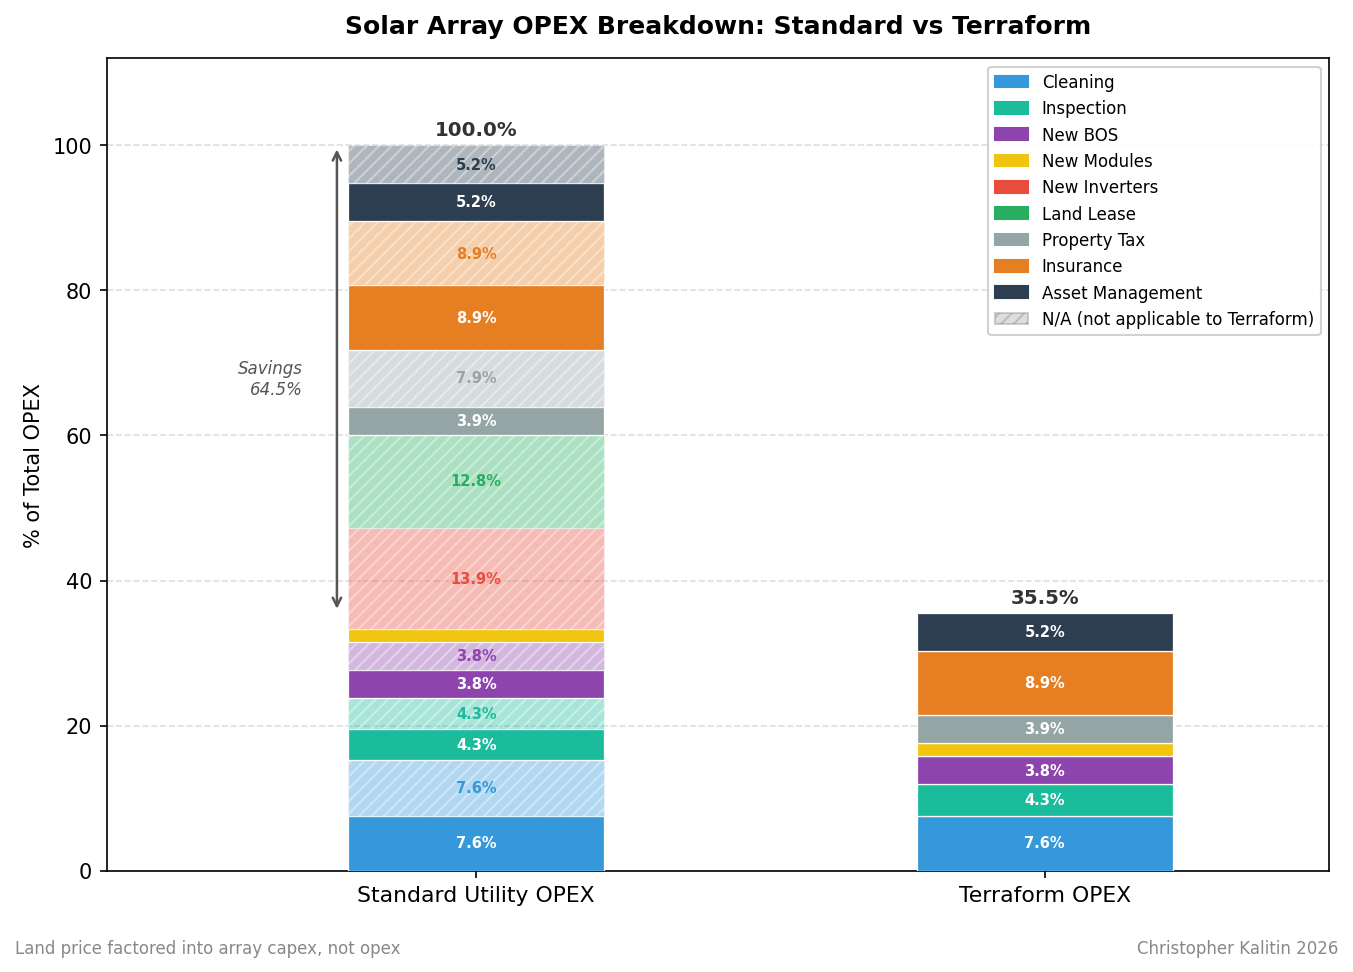
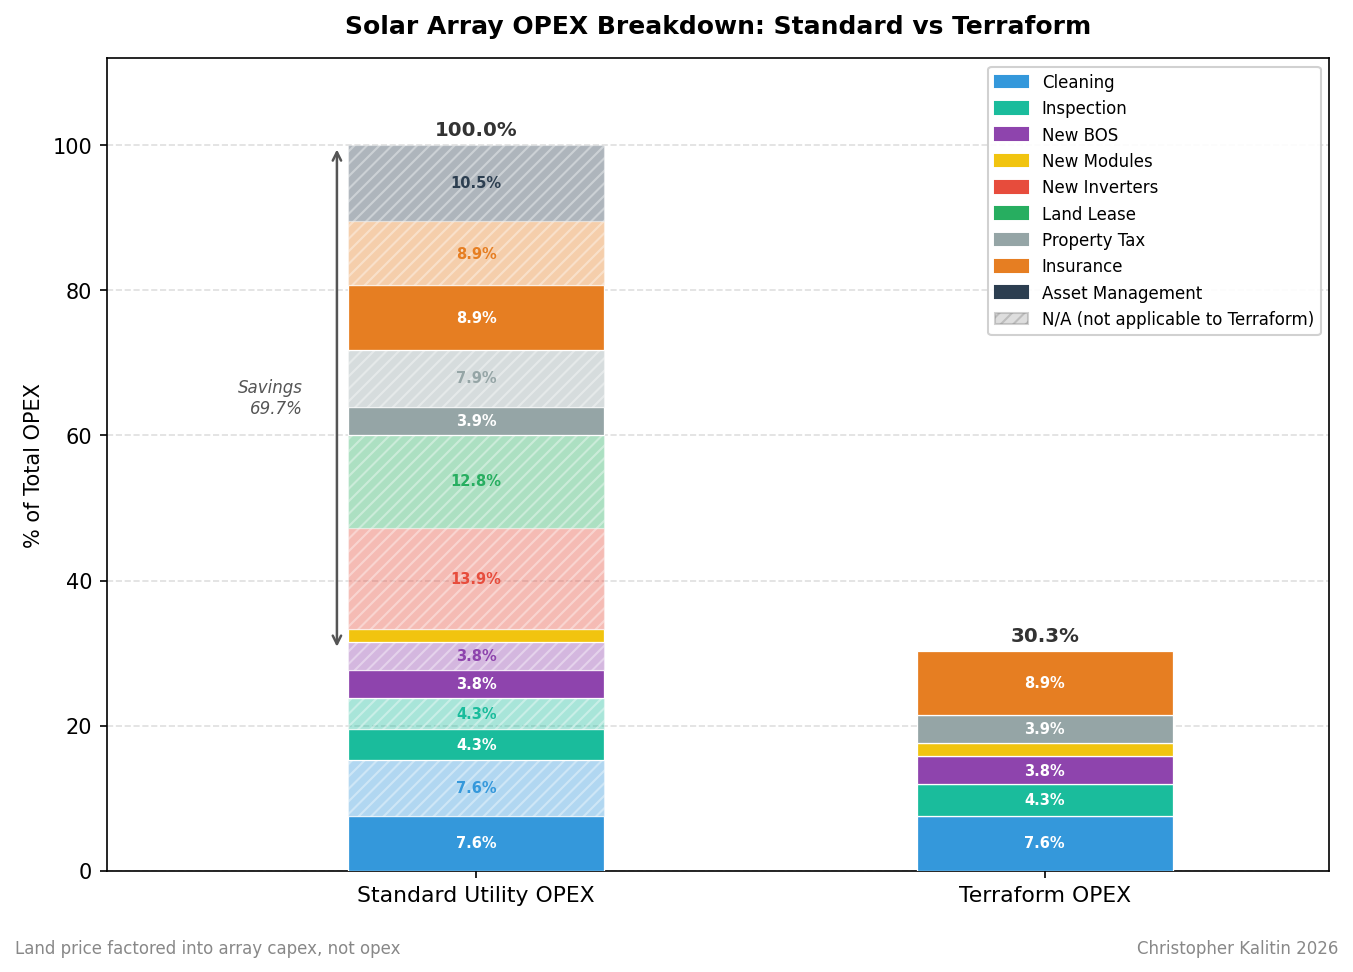
opex slightly lower

Changed region(s): [[0.2483, 0.1543, 0.4656, 0.2469], [0.6829, 0.5864, 0.8692, 0.679], [0.1552, 0.3704, 0.2173, 0.4321]]

diff --git a/Terraformer-Economics/solar/solar_lcoe.py b/Terraformer-Economics/solar/solar_lcoe.py
@@ -10,7 +10,7 @@ AUTHOR = 'Christopher Kalitin 2026'
 YEARS          = 25
 SOLAR_RESOURCE = 2000     # kWh/m²/yr
 ARRAY_SIZE_KW  = 1000     # kW
-OPEX_PER_KW    = 5.89     # $/kW/year
+OPEX_PER_KW    = 5.53     # $/kW/year
 
 # Terraform array costs
 ARRAY_COST_CURRENT  = 654   # $/kW

diff --git a/Terraformer-Economics/solar/solar_opex.py b/Terraformer-Economics/solar/solar_opex.py
@@ -17,7 +17,7 @@ OPEX = [
     ('Land Lease',       12.83, 0.00),
     ('Property Tax',     11.72, 0.33),
     ('Insurance',        17.71, 0.50),
-    ('Asset Management', 10.46, 0.50),
+    ('Asset Management', 10.46, 0.00),
 ]
 
 COLORS = {
